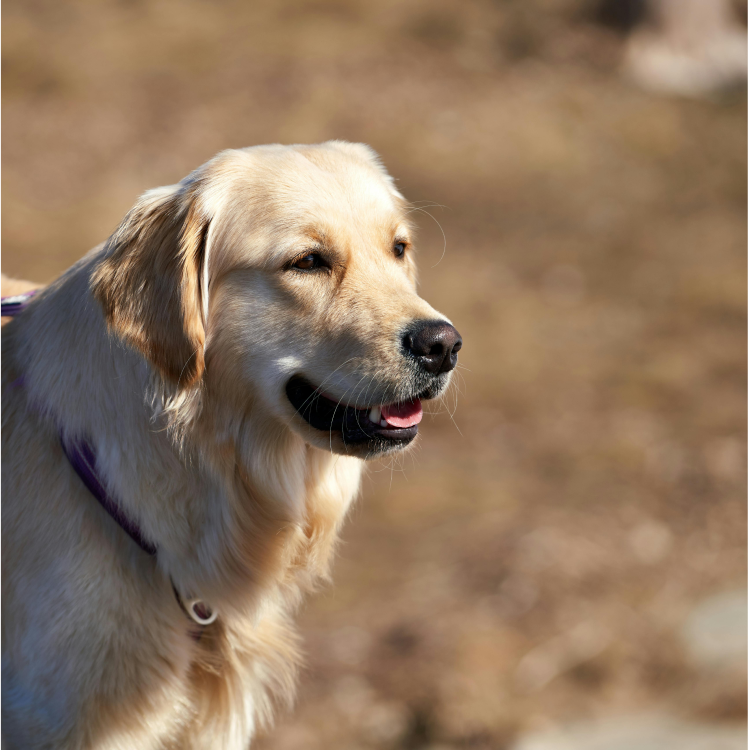
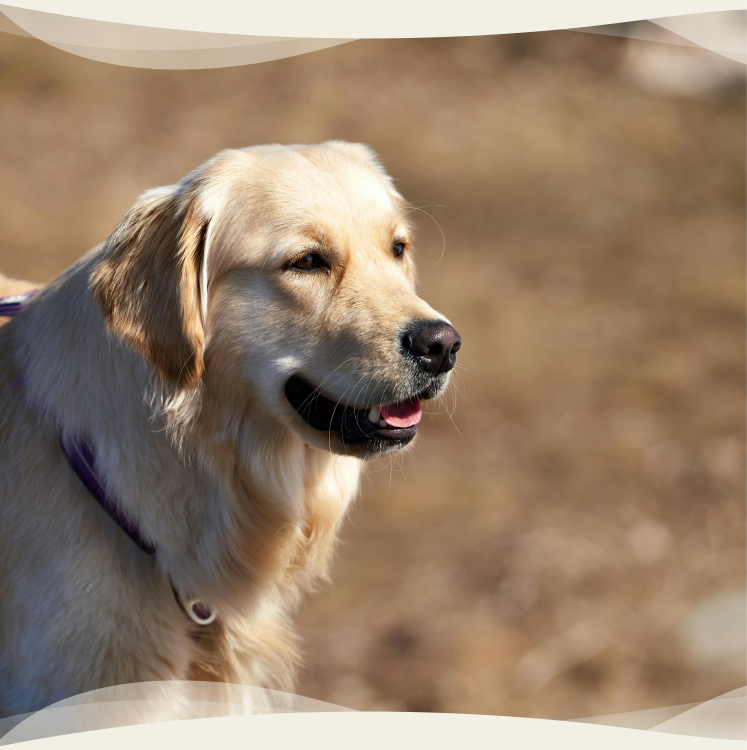
igy sokkal egyszerubb es atlathatobb.

diff --git a/src/components/about-us/AboutUs.css b/src/components/about-us/AboutUs.css
@@ -3,9 +3,6 @@
 	display: grid;
 	grid-template-columns: repeat(2, 1fr);
 	grid-template-rows: 10% 90%;
-	overflow: hidden;
-	position: relative;
-	z-index: 1;
 }
 
 .aboutUsImgDesktop {
@@ -17,12 +14,10 @@
 	display: none;
 }
 
-.imageContainer {
+.aboutUsImageContainer {
 	grid-column: 1;
 	grid-row: 1/3;
 	min-height: 100%;
-	position: relative;
-	z-index: 1;
 }
 
 .aboutUsText {
@@ -36,9 +31,7 @@
 	height: 100%;
 	justify-content: flex-start;
 	margin: 4em 0 4em 4rem;
-	position: relative;
 	width: 24em;
-	z-index: 3;
 }
 
 .aboutUsText p {
@@ -50,30 +43,9 @@
 	align-items: center;
 	color: #808083;
 	display: flex;
-	font-size: 2em;
-	font-weight: bold;
+	font-size: 2.5em;
 	grid-column: 2;
 	grid-row: 1;
 	justify-content: flex-start;
-	margin: 2.5em 0 0 4rem;
-	position: relative;
-	z-index: 3;
-}
-
-.upperDividerContainer,
-.lowerDividerContainer {
-	grid-column: 1/3;
-	grid-row: 1/3;
-	position: relative;
-	z-index: 2;
-}
-
-.lowerDividerContainer {
-	margin-top: auto;
-}
-
-.aboutUsUpperDivider,
-.aboutUsLowerDivider {
-	height: auto;
-	width: 100%;
+	margin: 2em 0 0 4rem;
 }

diff --git a/src/components/about-us/AboutUs.jsx b/src/components/about-us/AboutUs.jsx
@@ -4,10 +4,7 @@ import './AboutUsMobile.css';
 const AboutUs = () => {
 	return (
 		<div className="aboutUsContainer">
-			<div className="upperDividerContainer">
-				<img className="aboutUsUpperDivider" src="/assets/about-us/desktop/about-us-upper-divider.png" alt="" />
-			</div>
-			<div className="imageContainer">
+			<div className="aboutUsImageContainer">
 				<img className="aboutUsImgDesktop" src="/assets/about-us/desktop/about-us-img.png" alt="" />
 				<img className="aboutUsImgMobile" src="assets/about-us/mobile/about-us-img.png" alt="" />
 			</div>
@@ -25,9 +22,6 @@ const AboutUs = () => {
 					Lorem ipsum dolor sit amet, consectetur adipiscing elit. Praesent tincidunt volutpat lectus rutrum elementum. Suspendisse cursus pharetra
 					mattis. Mauris hendrerit euismod dolor, vitae.
 				</p>
-			</div>
-			<div className="lowerDividerContainer">
-				<img className="aboutUsLowerDivider" src="/assets/about-us/desktop/about-us-lower-divider.png" alt="" />
 			</div>
 		</div>
 	);

diff --git a/src/components/about-us/AboutUsMobile.css b/src/components/about-us/AboutUsMobile.css
@@ -1,7 +1,5 @@
 @media (max-width: 769px) {
-	.aboutUsImgDesktop,
-	.upperDividerContainer,
-	.lowerDividerContainer {
+	.aboutUsImgDesktop {
 		display: none;
 	}
 
@@ -18,19 +16,15 @@
 
 	.aboutUsTitle {
 		align-items: center;
-		grid-row: 2;
 		justify-content: center;
 		margin: 0;
-		z-index: 1;
 	}
 
 	.aboutUsText {
-		grid-row: 3;
 		margin: 4em auto 4em auto;
-		z-index: 1;
 	}
 
 	.aboutUsText p {
-		text-align: justify;
+		text-align: center;
 	}
 }
